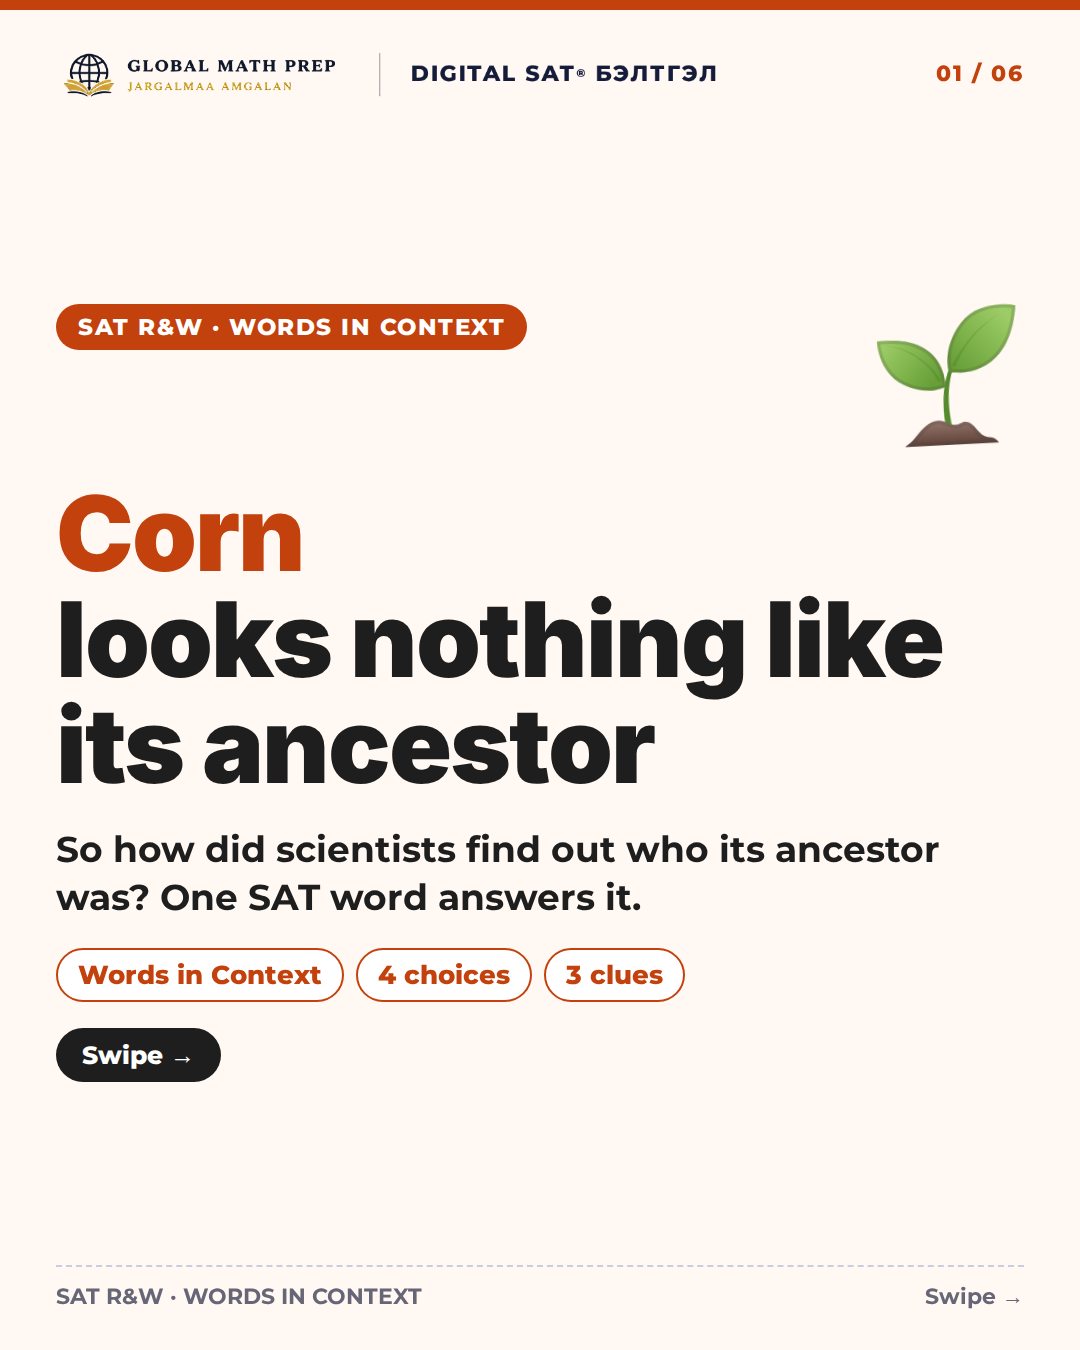
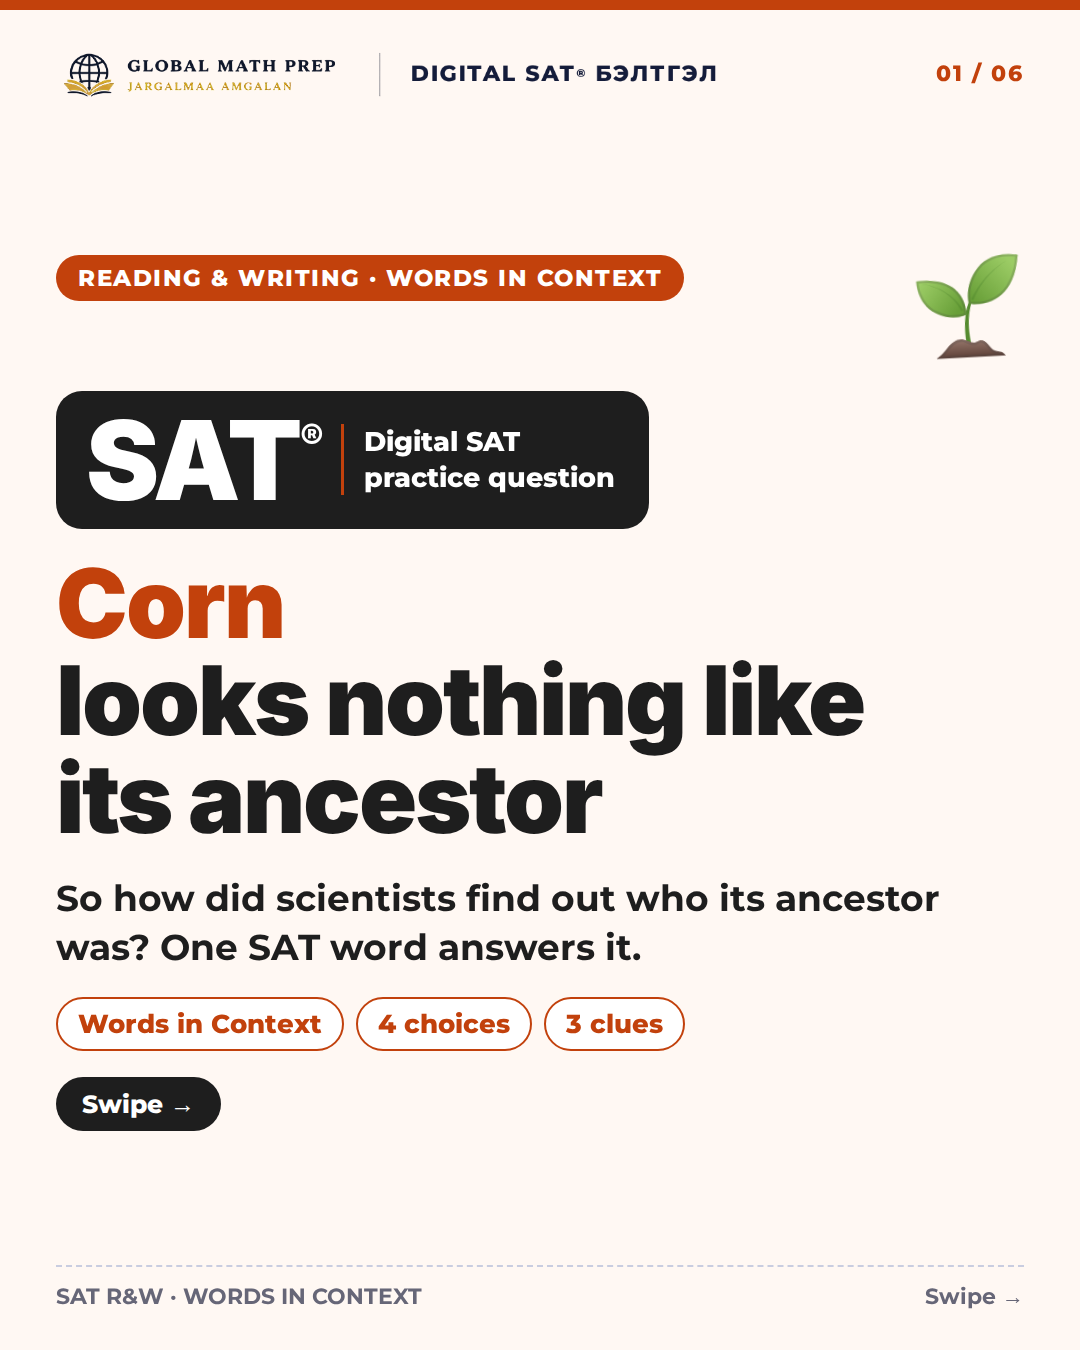
Cacao-Maize EN: SAT branding on cover
Claude-Session: https://claude.ai/code/session_01FLPzALAJUoveurDTsvCi1K

Changed region(s): [[0.0306, 0.1867, 0.8861, 0.84], [0.7944, 0.1867, 0.9472, 0.3422]]

diff --git a/tools/v2/gen36.py b/tools/v2/gen36.py
@@ -43,9 +43,10 @@ PR = 'Which choice completes the text with the most logical and precise word or 
 PASS = f'<span style="font-size:27px;line-height:1.5;display:block">{S1} {S2}</span>'
 
 # 1 cover
-cov = gen30.cover('SAT R&amp;W · WORDS IN CONTEXT', '<span class="blue">Corn</span><br>looks nothing like<br>its ancestor',
-                  'So how did scientists find out who its ancestor was? One SAT word answers it.',
-                  ['Words in Context', '4 choices', '3 clues'], '1f331').replace('Гүйлгээд үз →', 'Swipe →')
+cov = f"""<div style="display:flex;justify-content:space-between;align-items:center"><div class="pill">READING &amp; WRITING · WORDS IN CONTEXT</div>{E('1f331',110,'fl')}</div>
+<div style="align-self:flex-start;display:flex;align-items:center;gap:20px;background:#1e1e1e;color:#fff;border-radius:26px;padding:14px 34px 14px 30px"><span style="font-family:IN,M,sans-serif;font-weight:900;font-size:110px;letter-spacing:-3px;line-height:1">SAT<sup style="font-size:36px;vertical-align:top;position:relative;top:14px">&reg;</sup></span><span style="font-size:27px;font-weight:800;line-height:1.3;border-left:3px solid {AC};padding-left:20px">Digital SAT<br>practice question</span></div>
+<div class="h" style="font-size:96px"><span class="blue">Corn</span><br>looks nothing like<br>its ancestor</div>
+<div class="lead">So how did scientists find out who its ancestor was? One SAT word answers it.</div><div class="chips"><span>Words in Context</span><span>4 choices</span><span>3 clues</span></div><div class="swipe">Swipe →</div>"""
 
 p2 = f"""<div class="pill">YOUR TURN · TRY IT FIRST</div>{frame(1, PASS, CH, prompt=PR)}
 <div class="card big" style="padding:16px 24px">Which word fits the blank? Decide, then swipe for the answer.</div>"""
